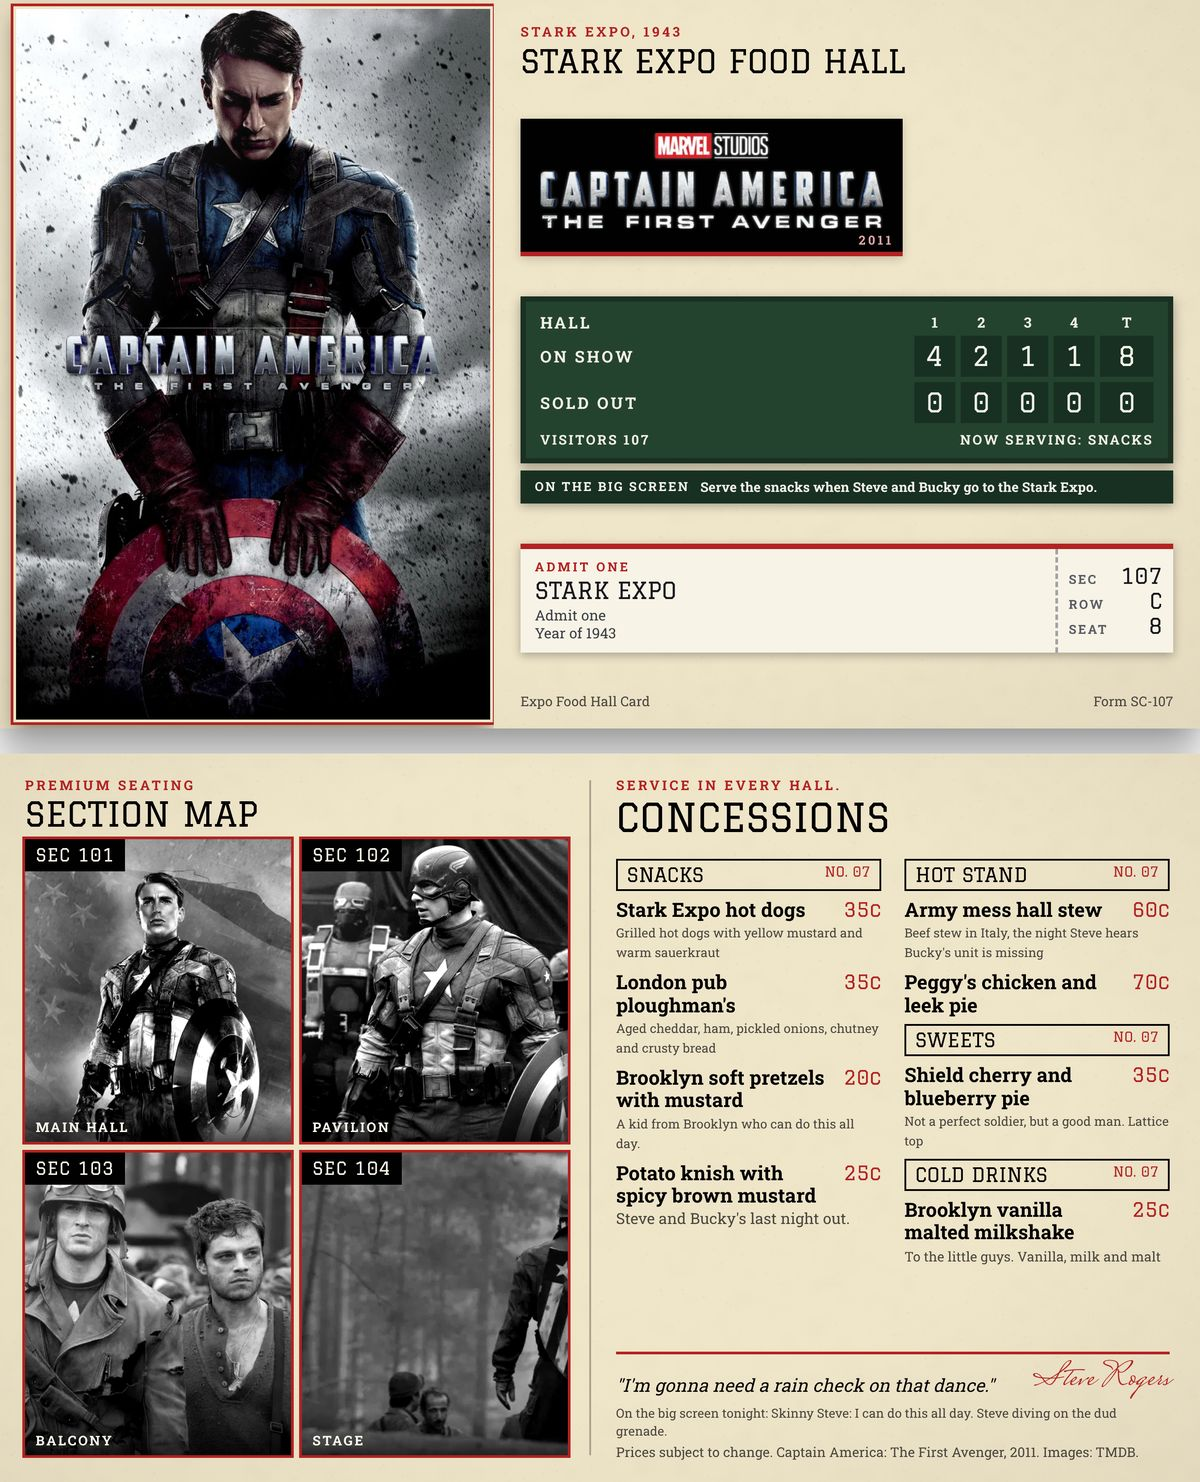
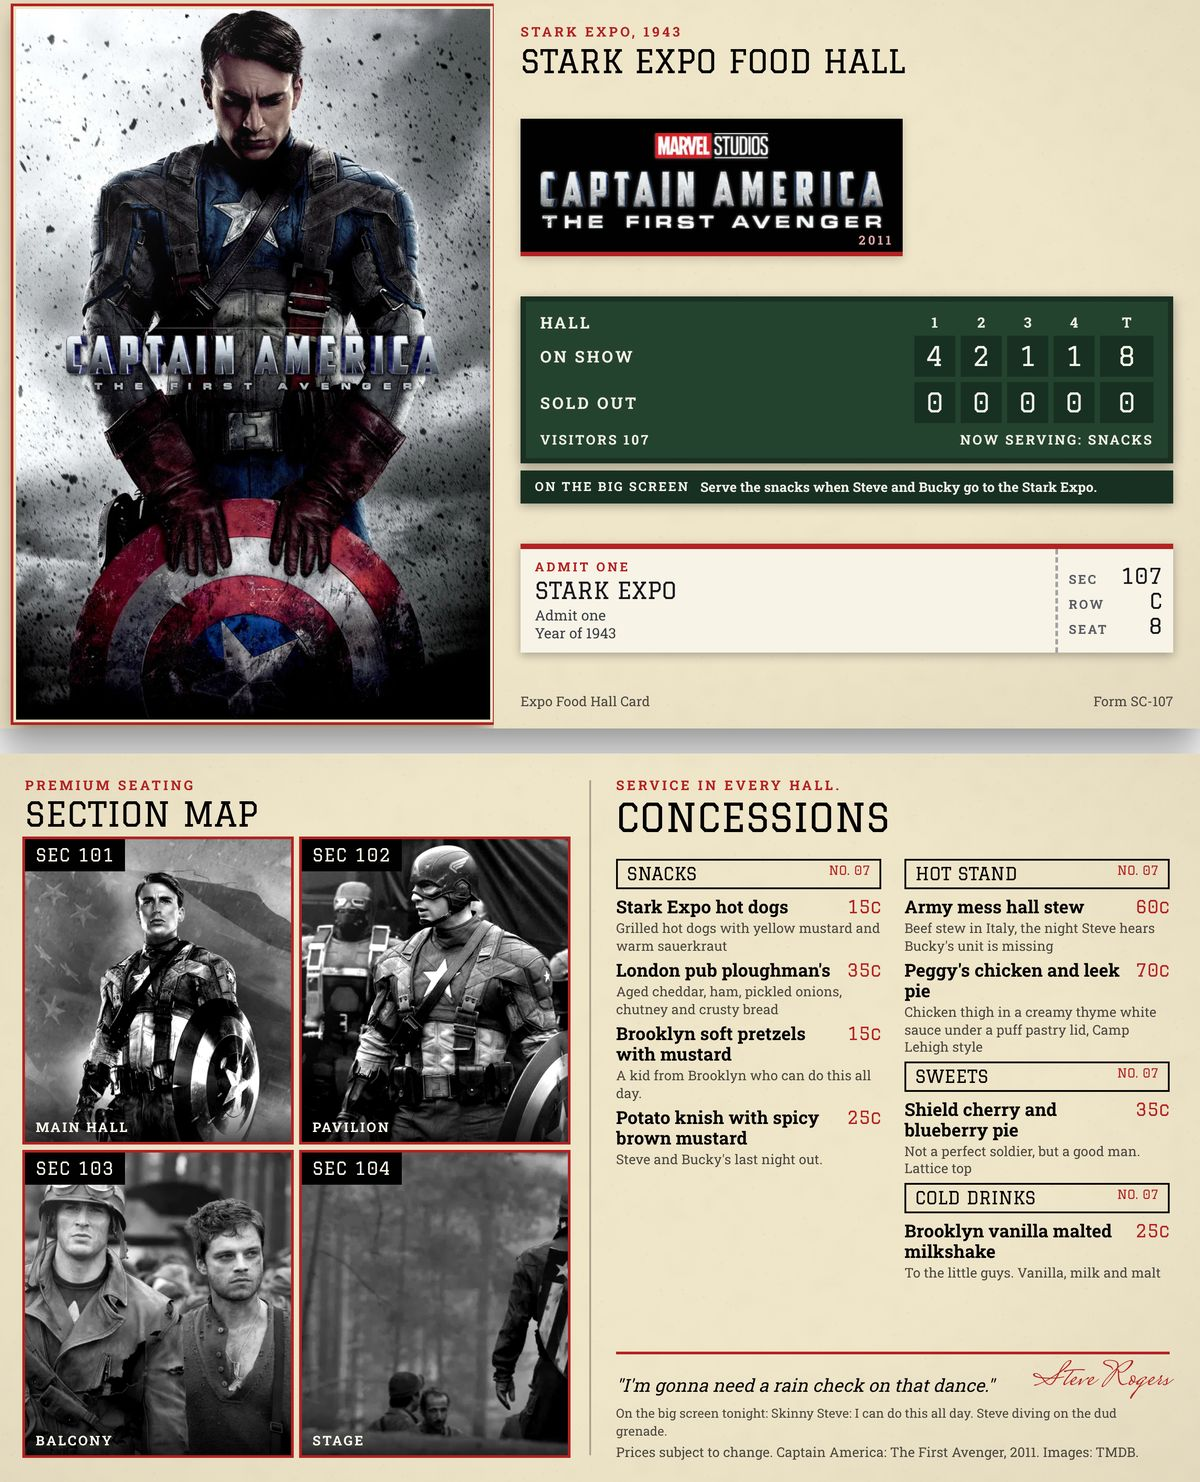
Review 32: stadium prints full notes
Claude-Session: https://claude.ai/code/session_01W3UAnF3374TxihYSznsWKE

Changed region(s): [[0.4933, 0.5587, 0.9867, 0.8691]]

diff --git a/menu-formats/stadium.js b/menu-formats/stadium.js
@@ -275,15 +275,16 @@ window.MENU_FORMATS[ID]=ctx=>{
   const CX=MX+30,CWall=W-CX-34,colGap=26;
   const pr=prices(items,e,ei,egg);
   const mTop=118,noteH=winks.length?186:150,menuH=H-mTop-noteH-26;
-  const tiers=[{d:30,n:22,g:18,h:32,nl:2},{d:28,n:21,g:16,h:30,nl:2},{d:26,n:19,g:14,h:26,nl:2},{d:24,n:18,g:11,h:24,nl:2},{d:22,n:17,g:9,h:22,nl:1},{d:21,n:16,g:7,h:21,nl:1},{d:20,n:15,g:6,h:20,nl:0},{d:18,n:14,g:5,h:18,nl:0}];
+  /* review 32 (Josh: room for full notes): whole-note tiers first, down to 14px notes, before the two and one-line cuts */
+  const tiers=[...[[30,22,18,32],[28,21,16,30],[26,19,14,26],[24,18,11,24],[22,17,9,22],[21,16,7,21],[20,15,6,20],[19,14,5,19],[18,14,4,18],[17,13,3,17]].map(([d,n,g,h])=>({d,n,g,h,nl:4})),{d:30,n:22,g:18,h:32,nl:2},{d:28,n:21,g:16,h:30,nl:2},{d:26,n:19,g:14,h:26,nl:2},{d:24,n:18,g:11,h:24,nl:2},{d:22,n:17,g:9,h:22,nl:1},{d:21,n:16,g:7,h:21,nl:1},{d:20,n:15,g:6,h:20,nl:0},{d:18,n:14,g:5,h:18,nl:0}];
   let dmax=3;const priceW=d=>d*2.4+8;
   let CW=(CWall-colGap)/2;
   const cH=(tr,k)=>tr.h*1.3+14+items[k].reduce((a,it)=>{const dl=Math.min(dmax,wrapLines(tx(it.n),tr.d,CW-priceW(tr.d),e.cwd));const nl=tr.nl?Math.min(tr.nl,wrapLines(tx(it.note),tr.n,CW,e.cw)):0;return a+dl*tr.d*1.15+nl*tr.n*1.3+(nl?3:0)+tr.g},0);
   /* best split of the courses into two columns, in order; one wide column when that fits bigger type */
   const split=tr=>{let best=null;for(let s=1;s<=C.length;s++){const a=C.slice(0,s).reduce((x,[k])=>x+cH(tr,k),0),b=C.slice(s).reduce((x,[k])=>x+cH(tr,k),0),m=Math.max(a,b);if(!best||m<best.m)best={s,m}}return best};
   let tr=tiers[tiers.length-1],sp=null,one=false;
-  for(const x of tiers){CW=CWall;const h1=C.reduce((a,[k])=>a+cH(x,k),0);if(h1*1.04<=menuH){tr=x;sp={s:C.length,m:h1};one=true;break}
-    CW=(CWall-colGap)/2;const q=split(x);if(q.m*1.04<=menuH){tr=x;sp=q;break}}
+  for(const x of tiers){const mg=x.nl>=4?.95:1.04;CW=CWall;const h1=C.reduce((a,[k])=>a+cH(x,k),0);if(h1*mg<=menuH){tr=x;sp={s:C.length,m:h1};one=true;break}
+    CW=(CWall-colGap)/2;const q=split(x);if(q.m*mg<=menuH){tr=x;sp=q;break}}
   if(!sp){dmax=2;CW=(CWall-colGap)/2;sp=split(tr)}
   /* review 18: the gap under each course comes out of the room that is left, shared by the courses in the taller column (it was a third of the room
      per course plus 14px each, so a four-course column ran past the box and cut its last drink: Phar Lap's shandy) */
@@ -296,7 +297,7 @@ window.MENU_FORMATS[ID]=ctx=>{
   };
   const course=([k,l])=>`<div style="margin-bottom:${cgap}px">${head(l)}${items[k].map((it,i)=>{const nl=tr.nl?Math.min(tr.nl,wrapLines(tx(it.note),tr.n,CW,e.cw)):0;return `<div style="margin-bottom:${tr.g}px">
       <div style="display:flex;justify-content:space-between;align-items:baseline;gap:8px"><span style="flex:1;font:700 ${tr.d}px/1.15 ${BF};color:${ink};${clamp(dmax)}">${esc(tx(it.n))}</span><span style="font:${e.dw} ${tr.d}px/1.15 ${DF};color:${acc};white-space:nowrap">${pr[k][i]}</span></div>
-      ${nl?`<div style="font:400 ${tr.n}px/1.3 ${BF};color:${soft};margin-top:3px;${clamp(nl)}">${esc(cap(tx(it.note)))}</div>`:""}</div>`}).join("")}</div>`;
+      ${nl?`<div style="font:400 ${tr.n}px/1.3 ${BF};color:${soft};margin-top:3px;${clamp(tr.nl>=4?6:nl)}">${esc(cap(tx(it.note)))}</div>`:""}</div>`}).join("")}</div>`;
   const colA=C.slice(0,sp.s).map(course).join(""),colB=C.slice(sp.s).map(course).join("");
   const menuHead=`<div style="position:absolute;left:${CX}px;width:${CWall}px;top:26px">${kick(t.hawk,acc,15)}<div style="font:${e.dw} 44px/1.05 ${DF};color:${ink};margin-top:4px;text-transform:uppercase">Concessions</div></div>`;
   const menu=`<div style="position:absolute;left:${CX}px;width:${CWall}px;top:${mTop}px;height:${menuH}px;display:flex;gap:${colGap}px;overflow:hidden"><div style="flex:0 0 ${CW}px">${colA}</div>${one?"":`<div style="flex:0 0 ${CW}px">${colB}</div>`}</div>`;
